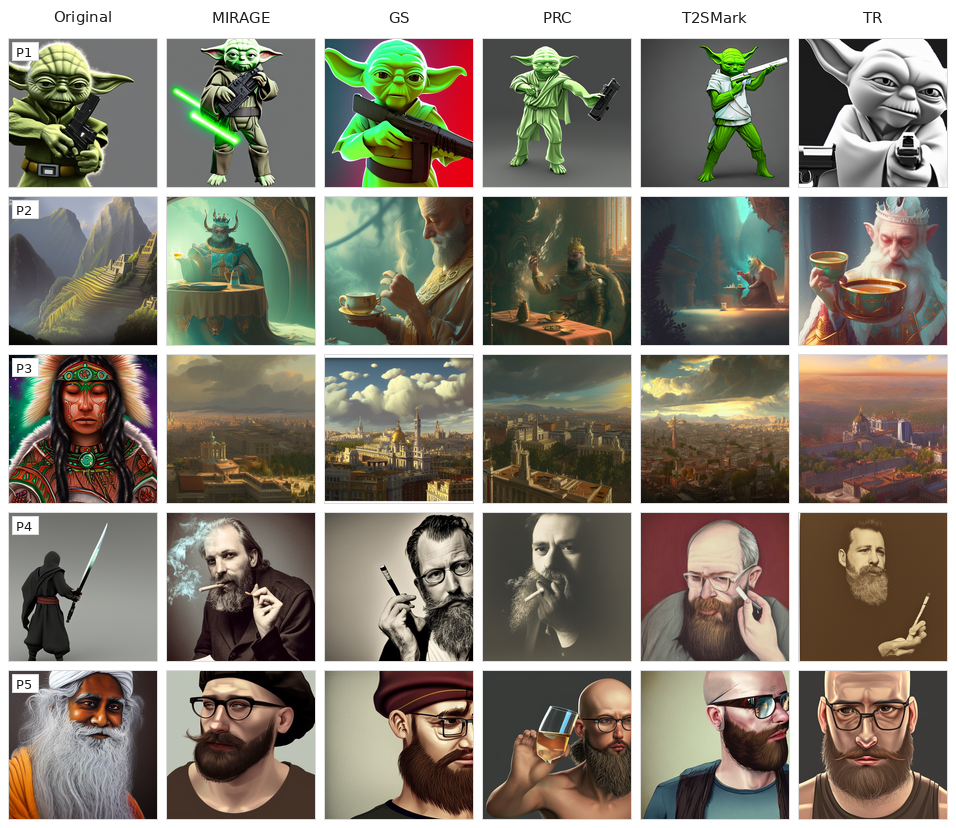
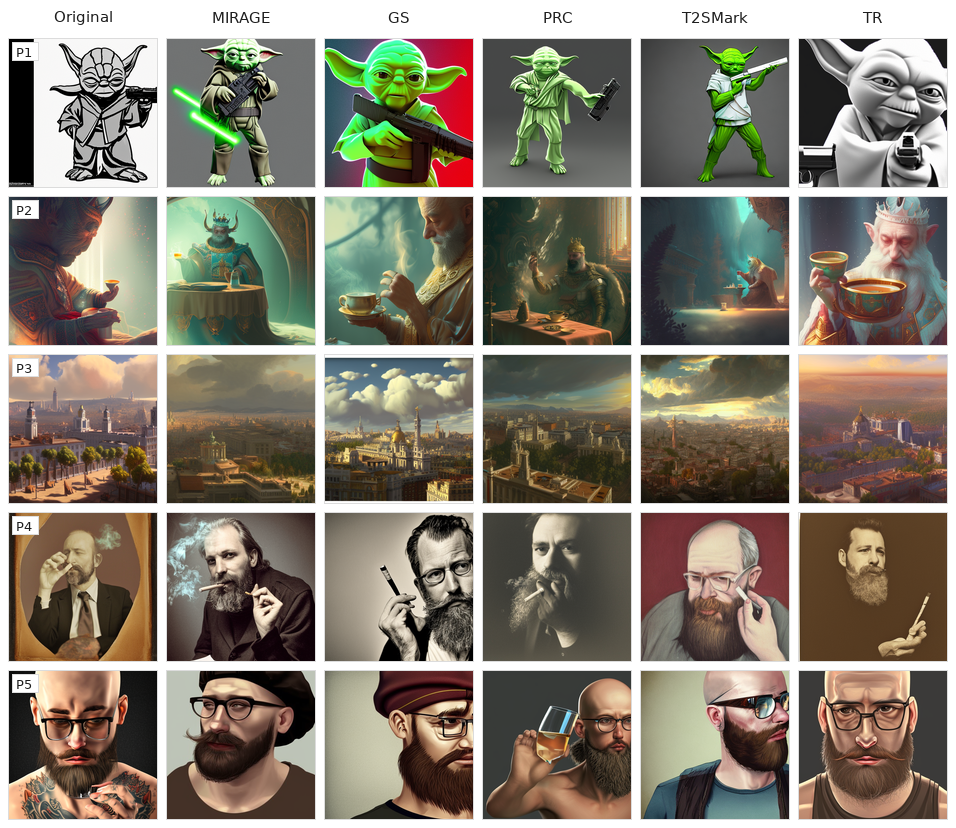
update

Changed region(s): [[0.0, 0.0, 0.182, 0.9964], [0.728, 0.0, 0.7887, 0.0302]]

diff --git a/tools/generate_readme_gallery_assets.py b/tools/generate_readme_gallery_assets.py
@@ -1,0 +1,126 @@
+"""Generate paired README gallery assets.
+
+This script generates the paired unwatermarked originals used by
+``make_readme_gallery.py`` and saves a compact set of SHIFT-0.7 attacked
+examples for the same SDP prompt/seed indices.
+"""
+
+from pathlib import Path
+import os
+import sys
+
+import torch
+from PIL import Image
+from diffusers import DDIMScheduler
+
+
+RELEASE_ROOT = Path(__file__).resolve().parents[1]
+WORKSPACE_ROOT = RELEASE_ROOT.parent
+MARKDIFF_ROOT = WORKSPACE_ROOT / "MarkDiffusion"
+EVAL_ROOT = MARKDIFF_ROOT / "qi_eval_n500_sdp"
+GALLERY_SOURCE = RELEASE_ROOT / "assets" / "gallery" / "source"
+
+sys.path.insert(0, str(MARKDIFF_ROOT))
+
+from qi_eval_n500_shift_sdp import encode_prompt, shift_attack  # noqa: E402
+from qi_gen_n500_sdp import reseed  # noqa: E402
+from qi_runtime_utils import build_cached_pipe, configure_qi_runtime, resolve_qi_device  # noqa: E402
+from qi_sdp_n500_config import PROMPTS  # noqa: E402
+from utils.diffusion_config import DiffusionConfig  # noqa: E402
+from watermark.auto_watermark import AutoWatermark  # noqa: E402
+
+
+MODEL = "huanzi05/stable-diffusion-2-1-base"
+STEPS = 50
+GS_SCALE = 7.5
+SIZE = 512
+SAMPLE_IDXS = [0, 5, 10, 15, 20]
+SCHEMES = ["MIRAGE", "GS", "PRC", "T2SMark", "TR"]
+SCHEME_CONFIGS = {
+    "MIRAGE": "config/MIRAGE_presence.json",
+    "PRC": "config/PRC.json",
+    "GS": "config/GS.json",
+    "TR": "config/TR.json",
+}
+
+
+def prompt_seed(idx: int) -> tuple[int, int, str]:
+    prompt_idx = idx // 5
+    seed_idx = idx % 5
+    seed = prompt_idx * 100 + seed_idx
+    return prompt_idx, seed, PROMPTS[prompt_idx]
+
+
+def build_watermark(pipe, scheduler, device, dtype):
+    dc = DiffusionConfig(
+        scheduler=scheduler,
+        pipe=pipe,
+        device=device,
+        image_size=(SIZE, SIZE),
+        num_inference_steps=STEPS,
+        num_inversion_steps=STEPS,
+        guidance_scale=GS_SCALE,
+        gen_seed=42,
+        inversion_type="ddim",
+        dtype=dtype,
+    )
+    return AutoWatermark.load(
+        "MIRAGE",
+        algorithm_config=str(MARKDIFF_ROOT / "config" / "MIRAGE_presence.json"),
+        diffusion_config=dc,
+    )
+
+
+def generate_originals(wm) -> None:
+    out_dir = GALLERY_SOURCE / "original"
+    out_dir.mkdir(parents=True, exist_ok=True)
+
+    for idx in SAMPLE_IDXS:
+        _, seed, prompt = prompt_seed(idx)
+        out = out_dir / f"img_{idx:04d}.png"
+        if out.exists():
+            continue
+        reseed(wm, seed)
+        image = wm.generate_unwatermarked_media(prompt)
+        image.save(out)
+        print(f"saved {out}", flush=True)
+
+
+@torch.no_grad()
+def generate_shift(pipe, device, dtype) -> None:
+    out_root = GALLERY_SOURCE / "shift_lambda_0.7"
+    out_root.mkdir(parents=True, exist_ok=True)
+
+    for idx in SAMPLE_IDXS:
+        _, _, prompt = prompt_seed(idx)
+        text_emb = encode_prompt(pipe, prompt, device)
+        for scheme in SCHEMES:
+            src = EVAL_ROOT / f"{scheme}_wm" / f"img_{idx:04d}.png"
+            if not src.exists():
+                raise FileNotFoundError(src)
+            out_dir = out_root / scheme
+            out_dir.mkdir(parents=True, exist_ok=True)
+            out = out_dir / f"img_{idx:04d}.png"
+            if out.exists():
+                continue
+            wm_img = Image.open(src).convert("RGB")
+            pipe.scheduler = DDIMScheduler.from_pretrained(
+                MODEL, subfolder="scheduler", local_files_only=True
+            )
+            attacked = shift_attack(pipe, wm_img, text_emb, 0.7, device, dtype)
+            attacked.save(out)
+            print(f"saved {out}", flush=True)
+
+
+def main() -> None:
+    configure_qi_runtime()
+    os.chdir(MARKDIFF_ROOT)
+    device, dtype = resolve_qi_device(0)
+    pipe, scheduler = build_cached_pipe(MODEL, device, dtype)
+    wm = build_watermark(pipe, scheduler, device, dtype)
+    generate_originals(wm)
+    generate_shift(pipe, device, dtype)
+
+
+if __name__ == "__main__":
+    main()

diff --git a/tools/make_readme_gallery.py b/tools/make_readme_gallery.py
@@ -13,6 +13,8 @@ RELEASE_ROOT = Path(__file__).resolve().parents[1]
 WORKSPACE_ROOT = RELEASE_ROOT.parent
 SOURCE_ROOT = WORKSPACE_ROOT / "MarkDiffusion" / "qi_eval_n500_sdp"
 OUT_DIR = RELEASE_ROOT / "assets" / "gallery"
+GALLERY_SOURCE = OUT_DIR / "source"
+PAIRED_ORIGINAL_ROOT = OUT_DIR / "source" / "original"
 
 SCHEMES = ["MIRAGE", "GS", "PRC", "T2SMark", "TR"]
 COLUMNS = ["Original"] + SCHEMES
@@ -33,6 +35,10 @@ CONDITIONS = {
     "unmarker_s2_attacked_watermarks": {
         "title": "After UnMarker-S2 removal attack",
         "suffix": "attacked_s2",
+    },
+    "shift_attacked_watermarks": {
+        "title": "After SHIFT trajectory deflection at lambda=0.7",
+        "suffix": "source:shift_lambda_0.7",
     },
 }
 
@@ -57,12 +63,20 @@ def font(size: int) -> ImageFont.ImageFont:
 def image_path(column: str, idx: int, suffix: str) -> Path:
     name = f"img_{idx:04d}.png"
     if column == "Original":
-        return SOURCE_ROOT / "UNWM_sdp" / name
+        return PAIRED_ORIGINAL_ROOT / name
+    if suffix.startswith("source:"):
+        return GALLERY_SOURCE / suffix.split(":", 1)[1] / column / name
     return SOURCE_ROOT / f"{column}_{suffix}" / name
 
 
 def load_tile(path: Path) -> Image.Image:
     if not path.exists():
+        if PAIRED_ORIGINAL_ROOT in path.parents:
+            raise FileNotFoundError(
+                f"{path} is missing. Generate paired unwatermarked originals "
+                f"with the same SDP prompt/seed indices under "
+                f"{PAIRED_ORIGINAL_ROOT} before rebuilding galleries."
+            )
         raise FileNotFoundError(path)
     return Image.open(path).convert("RGB").resize((CELL, CELL), Image.LANCZOS)
 

diff --git a/README.md b/README.md
@@ -40,7 +40,7 @@ Stable Diffusion 2.1-base is the default backbone; weights download from Hugging
 
 ## 3. Visual Examples
 
-Each row below is one SDP prompt/seed pair. Columns compare the unwatermarked image with MIRAGE and four baseline watermarks.
+Each row below is one SDP prompt/seed pair. Columns compare the paired unwatermarked original with MIRAGE and four baseline watermarks.
 
 **Clean watermarked outputs**
 
@@ -53,6 +53,10 @@ Each row below is one SDP prompt/seed pair. Columns compare the unwatermarked im
 **After UnMarker-S2 removal attack**
 
 ![UnMarker-S2-attacked watermarked outputs](assets/gallery/unmarker_s2_attacked_watermarks.png)
+
+**SHIFT trajectory deflection**
+
+![SHIFT-attacked watermarked outputs](assets/gallery/shift_attacked_watermarks.png)
 
 The checked-in gallery images were built from cached evaluation outputs. The helper script `tools/make_readme_gallery.py` is for release preparation and expects those cached outputs to be present locally.
 
